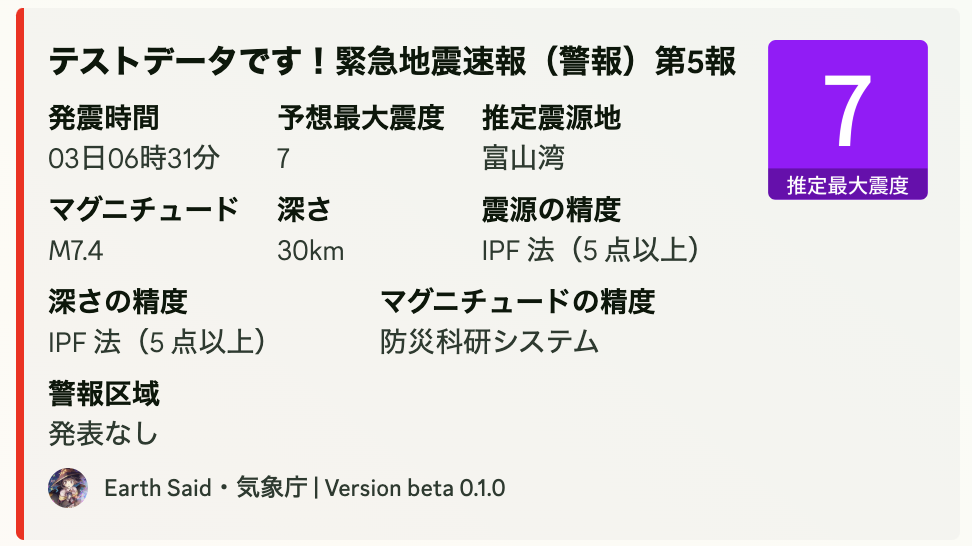
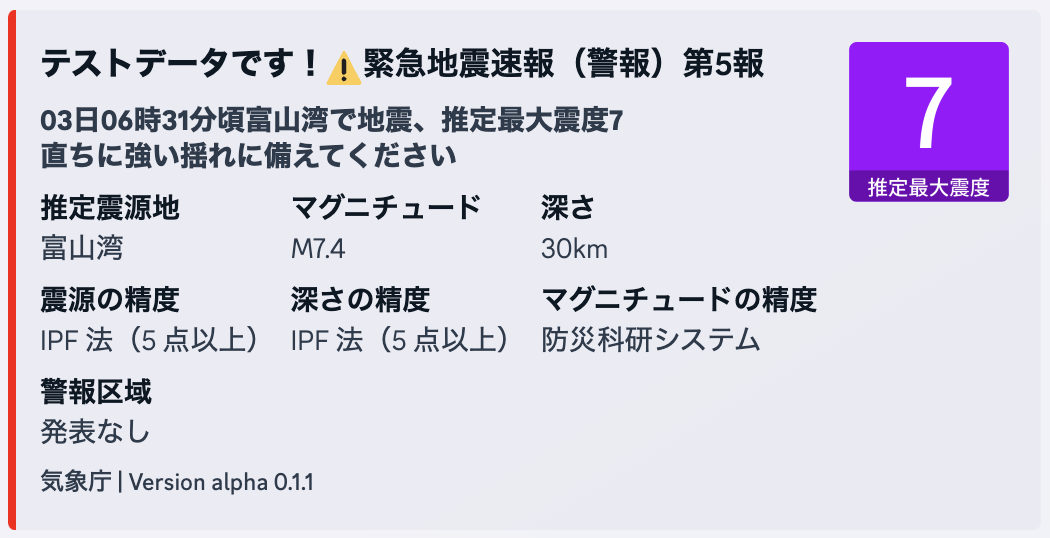
readmeの変更、スクリーンショットの新しいものに、揺れへの備えのコードミス

Changed region(s): [[0.0, 0.0, 0.9877, 1.0], [0.4938, 0.3569, 0.7407, 0.5056], [0.2778, 0.3569, 0.463, 0.4758]]

diff --git a/bot.py b/bot.py
@@ -409,7 +409,7 @@ async def process_eew_data(data, is_test=False):
     if is_assumption:
         title += "【仮定震源要素】"
 
-    description += "\n**直ちに強い揺れに備えてください**" if deta.get('isWarn', False) else "\n**揺れに備えてください**"
+    description += "\n**直ちに強い揺れに備えてください**" if data.get('isWarn', False) else "\n**揺れに備えてください**"
 
     accuracy_conditions = [
         "P 波／S 波レベル超え、IPF 法（1 点）、または仮定震源要素",

diff --git a/README.md b/README.md
@@ -1,15 +1,17 @@
-# Earth Said BOT
+# Earth Said BOT(alpha版)
 
 <div style="text-align: center;">
     <img src="screenshot.png" alt="Kyoshin Report BOT Screenshot" style="max-width: 100%; height: auto;">
 </div>
 ※実際のものではありません
 
-> [!WARNING]
+> [!CAUTION]
 >## 始める前に
-> プログラミング弱者が作ったコードなのでエラーが発生する可能性があります。
-> 環境によっては起動できない可能性があります。
-
+> このブランチはAlpha版です。完全な動作を確認していません。
+> また間違っている部分もある可能性があります。
+> 十分注意して使用してください。
+>
+> 動作を確認したらmainブランチにコミットをします。
 ## 環境構築
 
 > [!WARNING]
